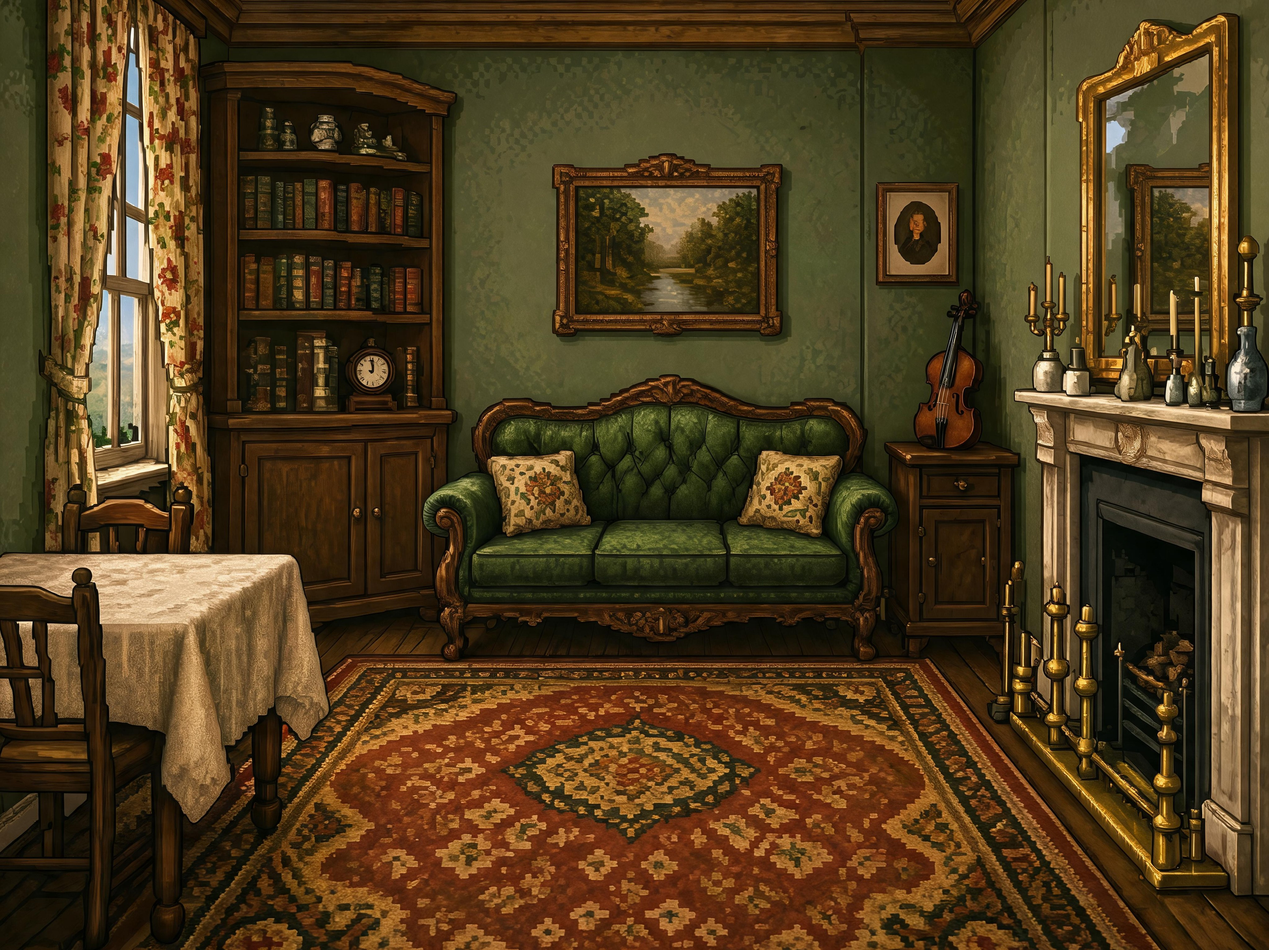
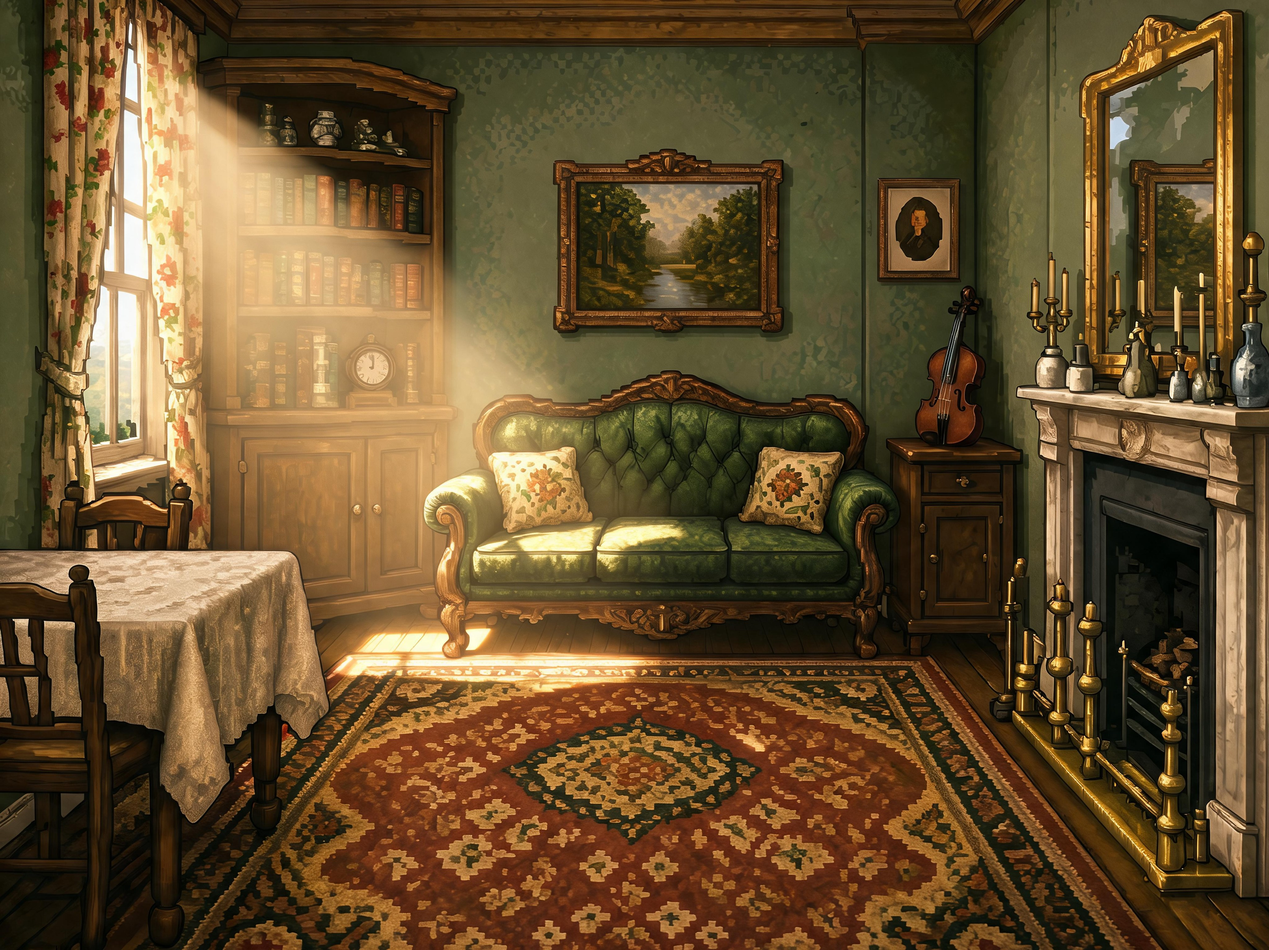
feat(场景一): 沙发背景加入柔和阳光光束与窗框光影交错（图生图，多模态验证 PASS，保持原构图）

diff --git a/godot_project/web_build/index.html b/godot_project/web_build/index.html
@@ -112,7 +112,7 @@ body {
 
 		<script src="index.js"></script>
 		<script>
-const GODOT_CONFIG = {"args":[],"canvasResizePolicy":2,"emscriptenPoolSize":8,"ensureCrossOriginIsolationHeaders":true,"executable":"index","mainPack":"index.pck?v=20260914-bg1","experimentalVK":false,"fileSizes":{"index.pck":131041820,"index.wasm":39513091},"focusCanvas":true,"gdextensionLibs":[],"godotPoolSize":4};
+const GODOT_CONFIG = {"args":[],"canvasResizePolicy":2,"emscriptenPoolSize":8,"ensureCrossOriginIsolationHeaders":true,"executable":"index","mainPack":"index.pck?v=20260914-bg2","experimentalVK":false,"fileSizes":{"index.pck":130518620,"index.wasm":39513091},"focusCanvas":true,"gdextensionLibs":[],"godotPoolSize":4};
 const GODOT_THREADS_ENABLED = false;
 const engine = new Engine(GODOT_CONFIG);
 
